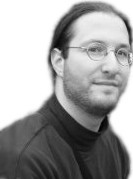
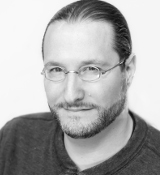
updated bios and headshots

diff --git a/itfsite/templates/itfsite/about.html b/itfsite/templates/itfsite/about.html
@@ -35,9 +35,9 @@
 	.team img {
 		float: right;
 		margin: 0 0 1em 1.25em;
-		width: 130px;
+		width: 160px;
 		height: 175px;
-		border: none; /*1px solid #AAA;*/
+		border: 1px solid #AAA;
 	}
 	.team p {
 		color: black;
@@ -94,14 +94,14 @@ dl dd {
 
 		<h3>Jonathan Zucker<span>, co-founder</span></h3>
 		<img class='team-photo' src='/static/team/zucker.jpeg'>
-		<p>Jonathan Zucker is a political technology entrepreneur. He is the founder &amp; CEO of <a href="http://www.democracyengine.com">Democracy Engine</a>, which helps organizations channel funds to candidates and causes to effect real change. Prior to Democracy Engine, he was executive director of ActBlue.</p>
-		<p>He is also an advisor and counsel to <a href="http://CrowdPAC.com">CrowdPAC</a> and co-founder and COO of <a href="http://ruck.us">Ruck.us</a>. He holds a J.D. from Georgetown University. <a class="ext" href="http://www.democracyengine.com/zucker">extended bio</a></p>
+		<p>Jonathan Zucker is a campaign finance attorney and political technology entrepreneur. He is the founder &amp; CEO of <a href="http://www.democracyengine.com">Democracy Engine</a>, a donation processing platform that specializes in executing complex political contributions in compliance with applicable laws and regulations.</p>
+		<p>Prior to Democracy Engine, he was executive director of ActBlue. He has authored or consulted on several FEC Advisory Opinions.  He is also an advisor and counsel to <a href="http://Crowdpac.com">Crowdpac</a> and co-founder and COO of <a href="http://ruck.us">Ruck.us</a>. He holds a J.D. from Georgetown University. <a class="ext" href="http://www.democracyengine.com/zucker">extended bio</a></p>
 		<div class="clearfix"> </div>
 
 		<h3>Joshua Tauberer<span>, co-founder</span></h3>
 		<img class='team-photo' src='/static/team/tauberer.jpeg'>
-		<p>Joshua Tauberer is a civic hacker and entrepreneur. His <a href="https://www.govtrack.us">GovTrack.us</a> project, which launched in 2004, helps millions of individuals track and understand the activities of the U.S. Congress, and it was the first website to create open data for Congress.</p>
-		<p>He is also the author of <a href="https://opengovdata.io">Open Government Data: The Book</a>, an organizer of <a href="http://dc.opendataday.org/">Open Data Day DC</a>, and holds a Ph.D. from the University of Pennsylvania. <a class="ext" href="http://razor.occams.info">homepage</a></p>
+		<p>Joshua Tauberer is a civic hacker, entrepreneur, and expert in government transparency and accountability. His <a href="https://www.govtrack.us">GovTrack.us</a> project, which launched in 2004, helps millions of individuals track and understand the activities of the U.S. Congress, and it was the first website to create open data for Congress.</p>
+		<p>He is also the author of <a href="https://opengovdata.io">Open Government Data: The Book</a>, is an organizer of the yearly <a href="http://dc.opendataday.org/">Open Data Day DC</a> conference, and holds a Ph.D. from the University of Pennsylvania. <a class="ext" href="http://razor.occams.info">homepage</a></p>
 		<div class="clearfix"> </div>
 	</div>
 	</div>
